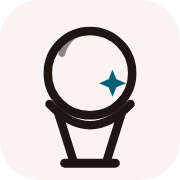
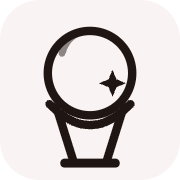
Go monochrome: a hueless accent, and hue reserved for meaning
The cyan accent is gone. The colour law reserves hue for three families
(change semantics, review-note kinds, syntax classes on a code surface)
and Seer has none of them, so Seer carries no hue at all.

- Accent, dark: 28 20% 87%, a warm near-white. It sits above the prose
  ink it is set in and just under the display ink, so a link reads as a
  lift rather than a colour.
- Accent, light: 10 20% 6%, DARKER than body ink at 8 20% 10%. In a
  hueless system a link has to be at least as strong as the text around
  it; the earlier pass had it lighter, which made links read as faded.
- Links carry a permanent underline: half strength in prose, the rule
  colour for ambient navigation, thickened on press. Structure carries
  the affordance now that colour does not.
- Headline emphasis is weight, not a tinted word.
- The mark is one ink: the glint is currentColor, the only filled shape
  among the strokes, so it inherits whatever ink it sits in.
- The theme control sits at muted and resolves to ink on hover.
- --line and --muted lost a point or two of saturation so every token in
  both themes lands under 8% chroma, the same bar the enforcement pass
  holds the rendered pages to. The change is imperceptible on screen and
  it means the substrate's cast is provably a cast, not a tint.
- Focus ring stays the accent: 13.5:1 on dark, 17.7:1 on light.
- favicon.svg, og.svg and the three PNGs re-rendered from source.
[…]

diff --git a/src/pages.ts b/src/pages.ts
@@ -9,9 +9,11 @@ export function escapeHtml(s: string): string {
 }
 
 // ---- the scrying glass: one hand-drawn mark, the whole identity ----
-// A crystal ball in its cradle. The ink strokes are the instrument; the single
-// glint inside carries the accent. It only animates where the mark is the
-// subject (the figure), never where it is furniture (masthead, footer).
+// A crystal ball in its cradle. Drawn in one ink that it inherits from wherever
+// it sits: strokes for the glass and the cradle, and one filled glint inside,
+// which is the only solid shape in the mark and reads as the highlight without
+// needing a colour of its own. It animates only where the mark is the subject
+// (the figure), never where it is furniture (masthead, footer).
 function markSvg(cls = "mark"): string {
   return `<svg class="${cls}" viewBox="0 0 48 58" role="img" aria-label="A crystal ball on a small stand" fill="none" xmlns="http://www.w3.org/2000/svg">
   <circle cx="24" cy="21" r="15" stroke="currentColor" stroke-width="1.5"/>
@@ -20,7 +22,7 @@ function markSvg(cls = "mark"): string {
   <path d="M13.5 33 L18 50" stroke="currentColor" stroke-width="1.5" stroke-linecap="round"/>
   <path d="M34.5 33 L30 50" stroke="currentColor" stroke-width="1.5" stroke-linecap="round"/>
   <path d="M16 51 L32 51" stroke="currentColor" stroke-width="1.6" stroke-linecap="round"/>
-  <path class="glint" d="M30 21.6 L30.95 24.05 L33.4 25 L30.95 25.95 L30 28.4 L29.05 25.95 L26.6 25 L29.05 24.05 Z" fill="hsl(var(--accent))"/>
+  <path class="glint" d="M30 21.6 L30.95 24.05 L33.4 25 L30.95 25.95 L30 28.4 L29.05 25.95 L26.6 25 L29.05 24.05 Z" fill="currentColor"/>
 </svg>`;
 }
 
@@ -28,13 +30,26 @@ function markSvg(cls = "mark"): string {
 // Design language, shared with Witness: the substrate is an oxblood-black, Seer's
 // red taken down to near-black, and it is designed dark first. The light theme is
 // derived from it rather than inverted into it, and holds the same cast at the
-// other end of the scale. The accent is a signal cyan sitting across from the
-// substrate, and it means one thing: this is tappable. Structure comes from
-// hairline rules plus a two-step surface (paper / paper-sunk), because tone alone
-// stops separating anything once the page is near-black. Type is Cabinet Grotesk
-// (display), Switzer (body), Commit Mono (real data only: slugs, versions,
-// timestamps, curl). Tokens are HSL triplets so hsl(var(--x)/0.3) gives alpha
-// variants. Both themes fully defined; the theme resolves pre-paint.
+// other end of the scale.
+//
+// Colour law: hue is reserved for meaning, and the only families allowed to carry
+// it are change semantics (add / change / remove / keep), review-note kinds, and
+// syntax classes on a code surface. Seer has none of those, so Seer is monochrome.
+// The accent is hueless: a warm near-white in dark, a near-black in light, in both
+// cases a value step past body ink rather than a colour. Every token is held under
+// 8% chroma so the whole palette reads as one cast rather than as tints, which is
+// the same bar the enforcement pass applies to the rendered pages.
+//
+// Life comes from value, rule and spacing instead: a two-step surface (paper /
+// paper-sunk), hairline rules at every boundary, a three-step ink ramp
+// (ink / ink-soft / muted), and the mark. Interactivity is structural: links carry
+// a permanent underline and step toward the extreme of the value ramp, ambient
+// navigation stays muted with its underline drawn in the rule colour, and the
+// focus ring is the accent at full strength.
+//
+// Type is Cabinet Grotesk (display), Switzer (body), Commit Mono (real data only:
+// slugs, versions, timestamps, curl). Tokens are HSL triplets so hsl(var(--x)/0.3)
+// gives alpha variants. Both themes fully defined; the theme resolves pre-paint.
 function styles(): string {
   return `
   @font-face {
@@ -64,7 +79,10 @@ function styles(): string {
   }
 
   /* The light theme: a faint blush stone carrying the substrate's cast, verified
-     on its own terms rather than assumed to work because dark does. */
+     on its own terms rather than assumed to work because dark does. The accent
+     here is DARKER than body ink, not lighter: in a hueless system a link has to
+     be at least as strong as the text around it, so it steps past the ink toward
+     black and carries an underline. */
   :root {
     color-scheme: light;
     --paper: 8 30% 96.5%;
@@ -72,8 +90,8 @@ function styles(): string {
     --ink: 8 20% 10%;
     --ink-soft: 8 15% 23%;
     --line: 6 20% 81%;
-    --muted: 8 13% 31%;
-    --accent: 193 94% 24%;
+    --muted: 8 12% 31%;
+    --accent: 10 20% 6%;
 
     --font-display: "Cabinet Grotesk", "Switzer", system-ui, -apple-system, sans-serif;
     --font-body: "Switzer", system-ui, -apple-system, sans-serif;
@@ -81,16 +99,18 @@ function styles(): string {
 
     --pad-x: 56px;
   }
-  /* The primary theme. */
+  /* The primary theme. The accent is a warm near-white: it sits above the prose
+     ink it is set in, and below the display ink, so a link is a lift rather than
+     a colour. */
   :root[data-theme="dark"] {
     color-scheme: dark;
     --paper: 356 28% 10%;
     --paper-sunk: 356 34% 6.5%;
     --ink: 18 22% 92%;
     --ink-soft: 14 15% 78%;
-    --line: 356 22% 24%;
-    --muted: 14 13% 67%;
-    --accent: 189 72% 64%;
+    --line: 356 16% 24%;
+    --muted: 14 11% 67%;
+    --accent: 28 20% 87%;
   }
   @media (max-width: 880px) {
     :root { --pad-x: 28px; }
@@ -104,9 +124,9 @@ function styles(): string {
       --paper-sunk: 356 34% 6.5%;
       --ink: 18 22% 92%;
       --ink-soft: 14 15% 78%;
-      --line: 356 22% 24%;
-      --muted: 14 13% 67%;
-      --accent: 189 72% 64%;
+      --line: 356 16% 24%;
+      --muted: 14 11% 67%;
+      --accent: 28 20% 87%;
     }
   }
 
@@ -154,11 +174,11 @@ function styles(): string {
 
   /* ---- thread spine ----
      A hairline down the content's left margin that says where the band starts and
-     how far it runs. It used to be drawn in the accent with a rotated diamond
-     bead floating on it; the bead was ornament and an accent line reads as
-     something you can click. Now the line is a rule like every other rule, and
-     only its first 28px carry the accent, as a tick marking the top of the band.
-     Hidden on narrow, where there is no margin to hang it in. */
+     how far it runs. It used to carry a rotated diamond bead, which was ornament.
+     Now the line is a rule like every other rule, and only its first 28px step up
+     to the accent, as a tick marking the top of the band. On a monochrome page
+     that value jump is doing the work a colour would have done. Hidden on narrow,
+     where there is no margin to hang it in. */
   .spine::before {
     content: "";
     position: absolute;
@@ -212,16 +232,18 @@ function styles(): string {
     letter-spacing: 0.14em;
     text-transform: uppercase;
     color: hsl(var(--muted));
-    text-decoration: none;
+    text-decoration-color: hsl(var(--line));
   }
 
   /* The theme control is the surface state itself, drawn as Lucide's contrast
      mark: half the disc inked, and which half flips with the theme. Same control
-     as Witness carries. Bare icon, no pill, 44px target. */
+     as Witness carries. Bare icon, no pill, 44px target. It sits in the masthead
+     register at muted, one step under the wordmark beside it, and resolves to
+     full ink on hover. */
   .theme-toggle {
     background: none; border: 0; margin: 0 -10px 0 0; padding: 10px;
     min-width: 44px; min-height: 44px;
-    color: hsl(var(--accent));
+    color: hsl(var(--muted));
     cursor: pointer; line-height: 0;
     display: inline-flex; align-items: center; justify-content: center;
     border-radius: 6px;
@@ -239,6 +261,7 @@ function styles(): string {
   .theme-toggle:active { background: hsl(var(--ink) / 0.07); }
   @media (hover: hover) and (pointer: fine) {
     .theme-toggle .tt-mark { transition: transform 220ms cubic-bezier(0.2, 0.9, 0.25, 1); }
+    .theme-toggle:hover { color: hsl(var(--ink)); }
   }
   @media (prefers-reduced-motion: reduce) { .theme-toggle .tt-mark { transition: none; } }
 
@@ -252,7 +275,10 @@ function styles(): string {
     margin: 0;
     max-width: 15ch;
   }
-  .h-display .accent { color: hsl(var(--accent)); font-weight: 500; }
+  /* Emphasis in the display line is weight, not colour. A single word tinted a
+     different colour inside a headline is the two-tone move, and with a hueless
+     accent it would only read as the word going dimmer. */
+  .h-display em { font-style: normal; font-weight: 600; }
   .h-section {
     font-family: var(--font-display);
     font-weight: 300;
@@ -285,16 +311,26 @@ function styles(): string {
   .prose p { max-width: 48ch; }
   .aside { color: hsl(var(--muted)); font-size: 0.95rem; }
 
-  /* One interactivity rule, shared with Witness: the accent means tappable.
-     Underline on hover and press only, so a run of links is not a fence of
-     rules. Ambient navigation (masthead, footer, the mark) stays muted and takes
-     the accent on hover; the accent is spent on the things you go to. */
-  a { color: hsl(var(--accent)); text-decoration: none; }
-  a:active { text-decoration: underline; text-underline-offset: 3px; text-decoration-thickness: 1px; }
+  /* One interactivity rule, shared with Witness, and it carries no hue: a link is
+     a value step plus a rule under it. In prose the accent steps past the ink it
+     sits in (up in dark, down in light) and the underline is always drawn, so the
+     affordance survives even where a link is the only word in a line. Press
+     thickens the rule instead of moving anything. Ambient navigation (masthead,
+     footer, version history) stays muted with its underline drawn in the line
+     colour, so a row of links is a quiet ruled row and not a fence, and it
+     resolves to full ink on hover. */
+  a {
+    color: hsl(var(--accent));
+    text-decoration: underline;
+    text-decoration-thickness: 1px;
+    text-underline-offset: 3px;
+    text-decoration-color: hsl(var(--accent) / 0.5);
+  }
+  a:active { text-decoration-color: currentColor; text-decoration-thickness: 2px; }
   @media (hover: hover) and (pointer: fine) {
     a { transition: color 150ms ease; }
-    a:hover { text-decoration: underline; text-underline-offset: 3px; text-decoration-thickness: 1px; }
-    .nav-action:hover, .brand:hover { color: hsl(var(--accent)); }
+    a:hover { text-decoration-color: currentColor; }
+    .nav-action:hover, .brand:hover, .footer a:hover, .history a:hover { color: hsl(var(--ink)); }
   }
   :focus-visible { outline: 2px solid hsl(var(--accent)); outline-offset: 2px; border-radius: 3px; }
 
@@ -339,8 +375,12 @@ function styles(): string {
   /* On a phone the command ran off the right edge and was cut mid-glyph inside a
      nested scroller. It already carries its own line continuations, so let it
      wrap there instead: the whole thing is readable without a sideways drag. */
+  /* The upload URL is one unbroken token, so pre-wrap alone still ran it under
+     the card's right padding and left the last glyph sitting on the border.
+     Let it break anywhere on a narrow screen: the whole command stays inside
+     the box with its gutter intact. */
   @media (max-width: 560px) {
-    pre.cmd { white-space: pre-wrap; }
+    pre.cmd { white-space: pre-wrap; overflow-wrap: anywhere; }
   }
   .specimen-note { font-size: 0.9rem; color: hsl(var(--ink-soft)); max-width: none; margin: 0.85rem 0 0; }
 
@@ -370,11 +410,11 @@ function styles(): string {
   tr:last-child td { border-bottom: 0; }
   @media (max-width: 560px) { th, td { padding: 0.65rem 0.7rem; } }
   .mono { font-family: var(--font-mono); font-size: 0.82rem; color: hsl(var(--ink-soft)); }
-  /* The slug is the one thing on this page you go to, so it carries the accent.
-     The version history beside it is a secondary route and stays muted. */
+  /* The slug is the one thing in this row you go to, so it is the strongest ink
+     on the row and the only underline drawn at full strength. The version history
+     beside it is a secondary route: same underline, drawn in the rule colour. */
   .slug a { font-weight: 500; }
-  .history a { margin-right: 0.6rem; color: hsl(var(--muted)); }
-  @media (hover: hover) and (pointer: fine) { .history a:hover { color: hsl(var(--accent)); } }
+  .history a { margin-right: 0.6rem; color: hsl(var(--muted)); text-decoration-color: hsl(var(--line)); }
   .empty { color: hsl(var(--muted)); margin-bottom: 1.4rem; }
 
   /* ---- footer ---- */
@@ -397,8 +437,7 @@ function styles(): string {
   .footer .brand, .footer .brand .wordmark { color: hsl(var(--ink)); }
   .footer .brand .mark { width: 18px; height: 22px; }
   .footer-links { display: flex; flex-wrap: wrap; gap: 0.7rem 1.4rem; }
-  .footer a { color: hsl(var(--muted)); }
-  @media (hover: hover) and (pointer: fine) { .footer a:hover { color: hsl(var(--accent)); } }
+  .footer a { color: hsl(var(--muted)); text-decoration-color: hsl(var(--line)); }
   .footer code { font-size: 0.95em; text-transform: none; letter-spacing: 0; }
 
   /* The glint animates only where the mark is the subject of the page, which is
@@ -632,7 +671,7 @@ ${head("Seer", og, `<link rel="alternate" type="text/markdown" href="/skill.md">
 <div class="frame">
   <div class="shell spine">
     ${navRow(action)}
-    <h1 class="h-display">Preview what your <span class="accent">agents</span> build.</h1>
+    <h1 class="h-display">Preview what your <em>agents</em> build.</h1>
     <p class="subtitle">A private instrument for previewing HTML&nbsp;bundles.</p>
     <div class="prose">
       <p class="lede">An agent builds a page, zips it, and pushes it here. Seer keeps every
